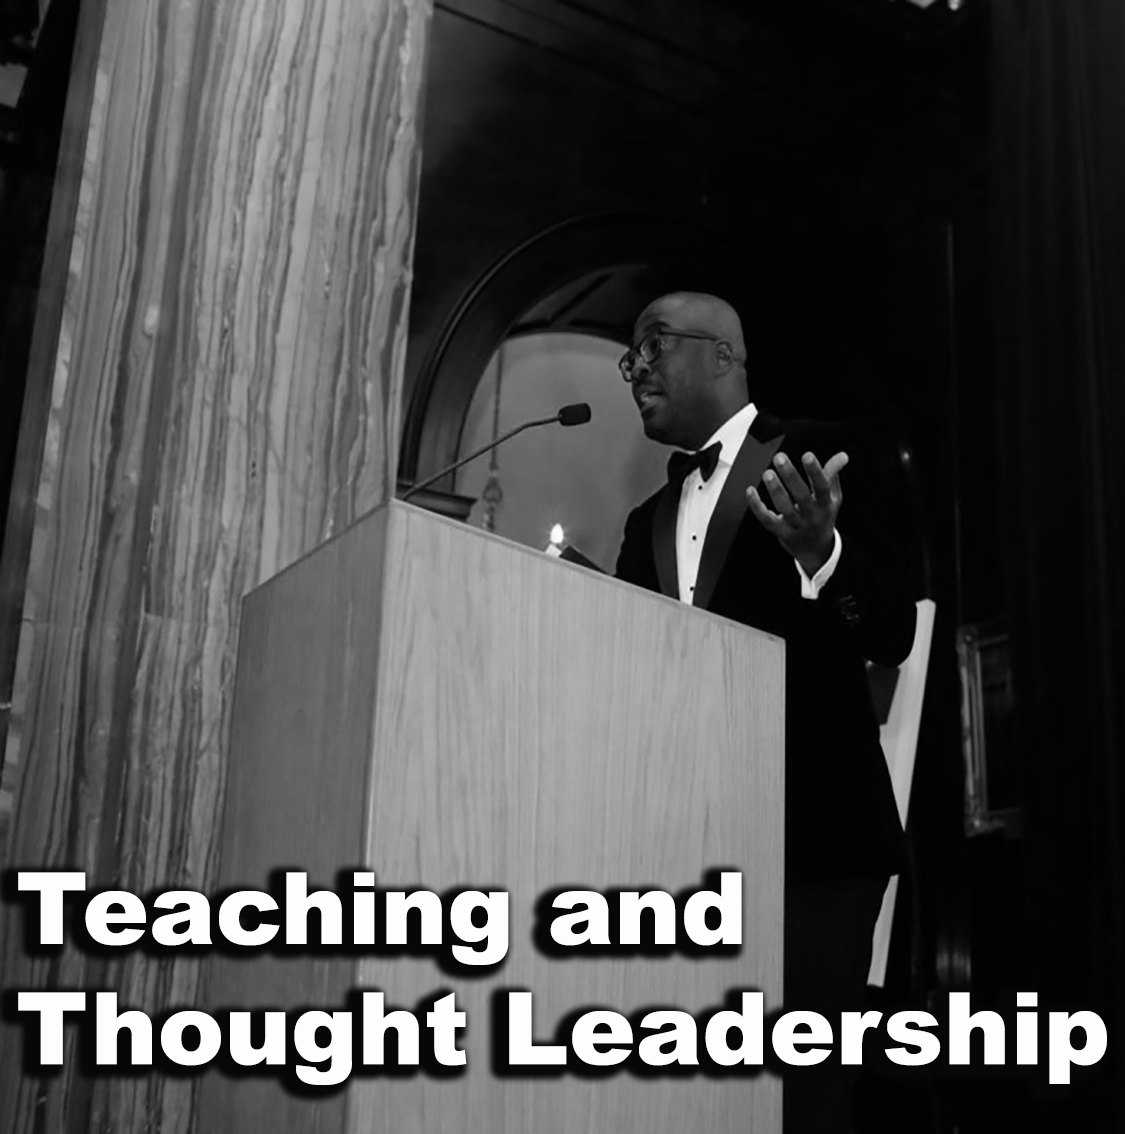
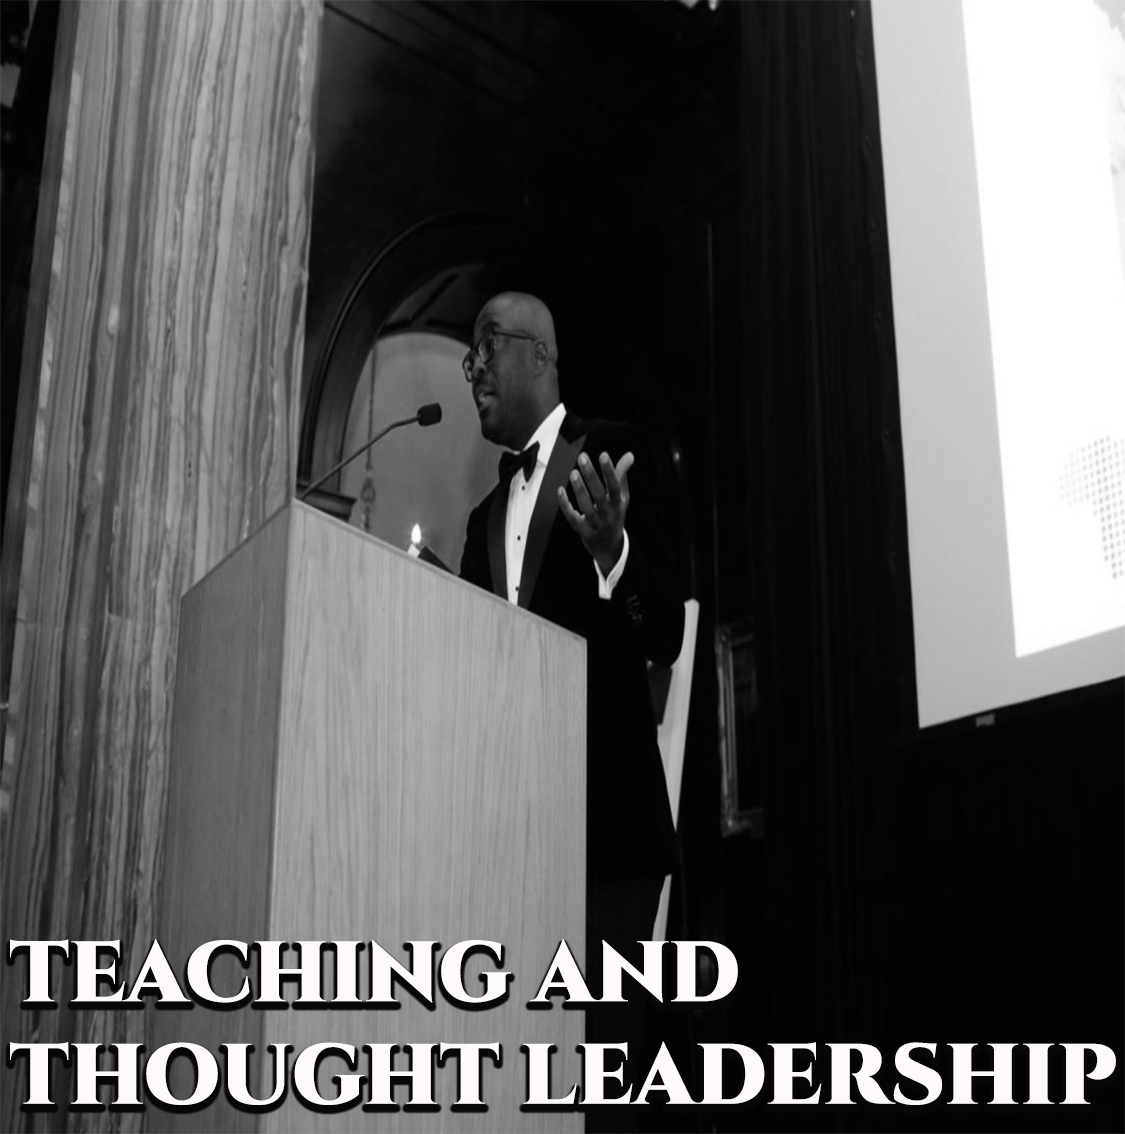
initial commit

diff --git a/index.html b/index.html
@@ -136,7 +136,7 @@
                                 <!-- Work -->
                                 <div class="work work-popup-trigger">
                                     <div class="work-overlay">
-                                        <img class="full-width img-responsive" src="img/800x400/Entrepreneurship.jpg" alt="Portfolio Image">
+                                        <img class="full-width img-responsive" src="img/800x400/ENTREPRENEURSHIP1.jpg" alt="Portfolio Image">
                                     </div>
                                     <div class="work-popup-overlay">
                                         <div class="work-popup-content">
@@ -164,7 +164,7 @@
                                 <!-- Work -->
                                 <div class="work work-popup-trigger">
                                     <div class="work-overlay">
-                                        <img class="full-width img-responsive" src="img/397x400/Law.jpg" alt="Portfolio Image">
+                                        <img class="full-width img-responsive" src="img/397x400/LAW.png" alt="Portfolio Image">
                                     </div>
                                     <div class="work-popup-overlay">
                                         <div class="work-popup-content">
@@ -200,7 +200,7 @@
                                 <!-- Work -->
                                 <div class="work work-popup-trigger">
                                     <div class="work-overlay">
-                                        <img class="full-width img-responsive" src="img/800x400/Boards.jpg" alt="Portfolio Image">
+                                        <img class="full-width img-responsive" src="img/800x400/BOARDS.png" alt="Portfolio Image">
                                     </div>
                                     <div class="work-popup-overlay">
                                         <div class="work-popup-content">
@@ -232,7 +232,7 @@
                                 <!-- Work -->
                                 <div class="work work-popup-trigger">
                                     <div class="work-overlay">
-                                        <img class="full-width img-responsive" src="img/397x400/Art.jpg" alt="Portfolio Image">
+                                        <img class="full-width img-responsive" src="img/397x400/ART.png" alt="Portfolio Image">
                                     </div>
                                     <div class="work-popup-overlay">
                                         <div class="work-popup-content">
@@ -260,7 +260,7 @@
                                 <!-- Work -->
                                 <div class="work work-popup-trigger">
                                     <div class="work-overlay">
-                                        <img class="full-width img-responsive" src="img/800x400/Writing.jpg" alt="Portfolio Image">
+                                        <img class="full-width img-responsive" src="img/800x400/WRITING.png" alt="Portfolio Image">
                                     </div>
                                     <div class="work-popup-overlay">
                                         <div class="work-popup-content">
@@ -290,7 +290,7 @@
                                 <!-- Work -->
                                  <div class="work work-popup-trigger">
                                     <div class="work-overlay">
-                                        <img class="full-width img-responsive" src="img/397x400/TATL.jpg" alt="Portfolio Image">
+                                        <img class="full-width img-responsive" src="img/397x400/tatl.jpg" alt="Portfolio Image">
                                     </div>
                                     <div class="work-popup-overlay">
                                         <div class="work-popup-content">
